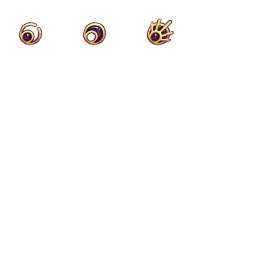
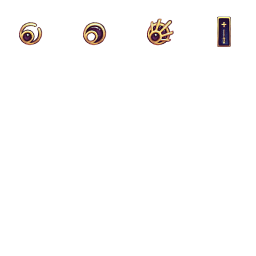
New image for a power up

Changed region(s): [[0.8438, 0.0625, 0.9062, 0.1875]]

diff --git a/src/gameworld.py b/src/gameworld.py
@@ -385,8 +385,8 @@ class GameWorld(object):
                 heal_pot.entity_ID = colle_ID
             elif tile_properties["type"] == "skill_up":
                 collider = components.Collider(x*64, y*64, 64, 64)
-                temp = pygame.image.load(os.path.join('data', 'skill_pot.png'))
-                skillup_sprite = components.Appearance(temp.convert_alpha())
+                temp = pygame.image.load(os.path.join('data', 'skill_additional_projectile.png'))
+                skillup_sprite = components.Appearance(temp.convert_alpha(), 32, 32, [9], [74])
                 skillup_sprite.rect.center = collider.center
                 skillup_pot = collectible.SkillUp(self, self.event_manager)
                 colle_ID = self.create_entity((skillup_sprite, skillup_pot, collider))
